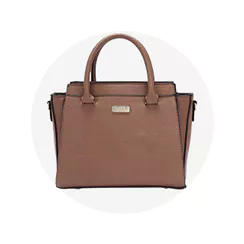
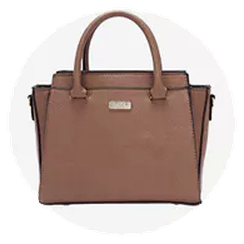
update

Changed region(s): [[0.1148, 0.0287, 0.8893, 0.8607]]

diff --git a/affiliate-shop/index.html b/affiliate-shop/index.html
@@ -45,8 +45,8 @@
     .category-grid{display:grid;grid-template-columns:repeat(auto-fit,minmax(96px,1fr));border-top:0}
     .category-tile{display:grid;place-items:center;gap:8px;min-height:112px;padding:12px 8px;border:0;border-right:1px solid rgba(148,163,184,.12);border-bottom:1px solid rgba(148,163,184,.12);background:rgba(8,17,31,.62);color:#f8fafc;cursor:pointer;text-align:center;font-weight:800}
     .category-tile:hover,.category-tile.is-active{outline:2px solid var(--green);outline-offset:-2px;background:rgba(34,197,94,.08);color:#22c55e}
-    .category-icon{display:grid;place-items:center;width:56px;height:56px;border-radius:50%;background:#f8fafc;overflow:visible;border:1px solid rgba(255,255,255,.7)}
-    .category-icon img{width:100%;height:100%;object-fit:cover;display:block}
+    .category-icon{display:grid;place-items:center;width:56px;height:56px;border-radius:50%;background:transparent;overflow:hidden;border:0}
+    .category-icon img{width:100%;height:100%;object-fit:contain;display:block;background:transparent;border-radius:50%}
     .category-all-icon{background:#07111f;color:#22c55e;font-size:23px}
     .category-name{font-size:12px;line-height:1.2}
     .tools{display:flex;gap:10px;flex-wrap:wrap;margin-top:8px}
